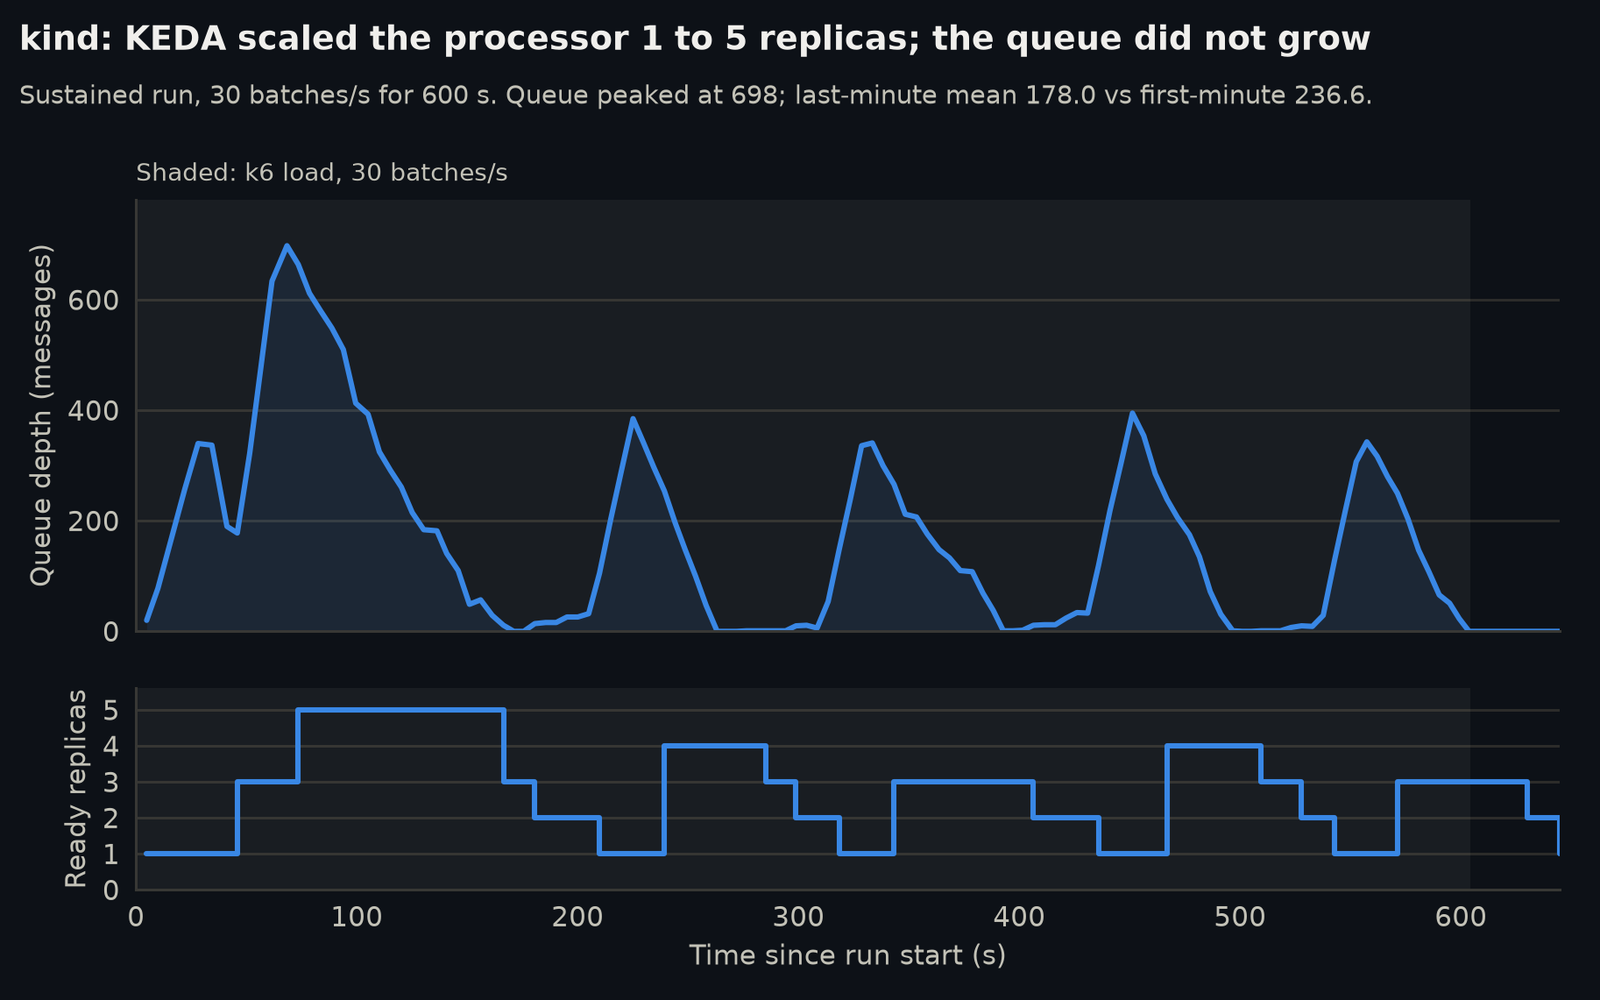
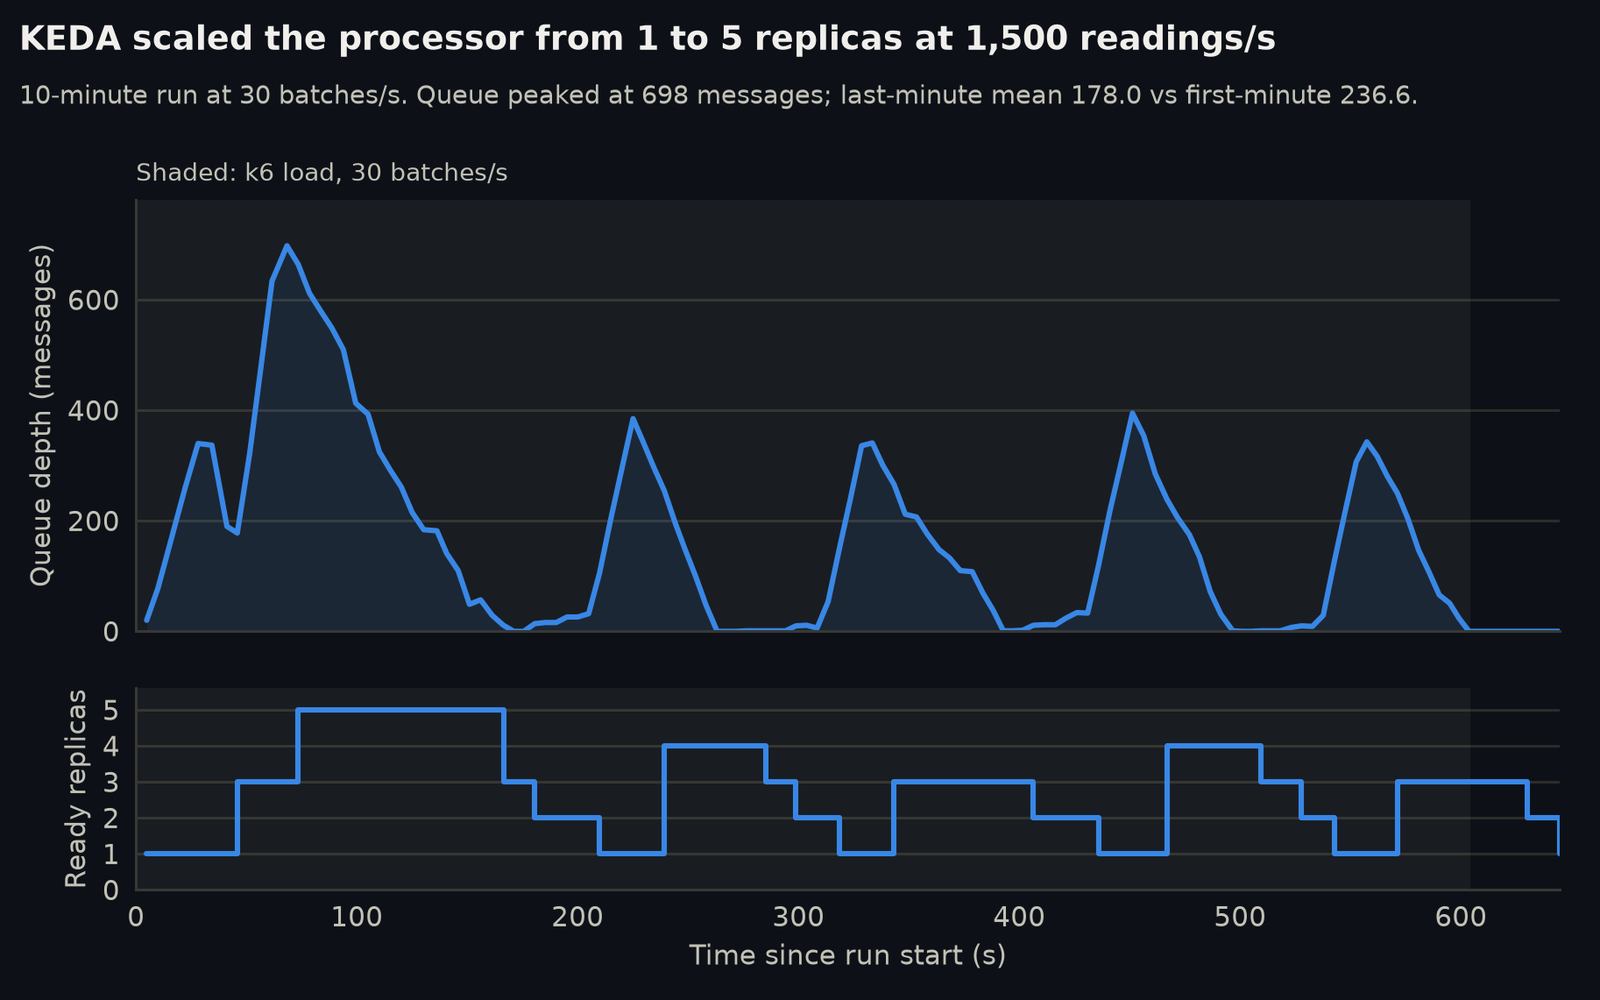
Shorten the Telemetry Monitor description and retitle its chart
The description drops to one plain sentence about ingest rate and autoscaling, in line with the other entries. The entry gains alt text, since its picture is a chart and not a screenshot. The chart is redrawn from the same 10-minute kind run with a title visitors can read, "KEDA scaled the processor from 1 to 5 replicas at 1,500 readings/s", where 1,500 is the run's 30 batches/s times 50 readings per batch as RESULTS.md records it.

Changed region(s): [[0.0, 0.0, 0.875, 0.124]]

diff --git a/lib/content/projects.ts b/lib/content/projects.ts
@@ -14,8 +14,9 @@ export const isVideo = (url: string) => url.endsWith(".mp4");
 export const projects: Project[] = [
   {
     title: "Rocket Telemetry Monitor",
-    description: "Streaming pipeline that ingests 1,500 simulated rocket sensor readings per second, autoscales its workers on Kubernetes and raises alerts on sensor faults.",
+    description: "Streaming pipeline that ingests 1,500 simulated rocket readings per second and autoscales its workers on Kubernetes.",
     images: ["/Telemetry_Monitor.png"],
+    alt: "Chart of queue depth and worker replicas during a 10-minute load test",
     tech: ["Java", "Spring Boot", "Python", "AWS", "Kubernetes", "Terraform"],
     github: "https://github.com/Danie1Le/Telemetry-Monitor",
   },
